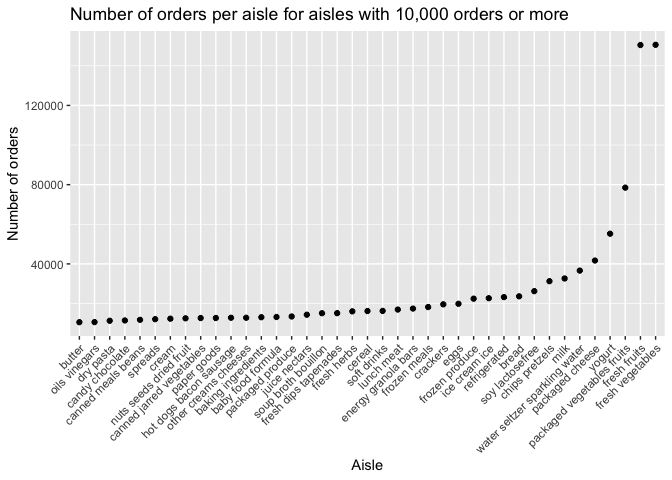
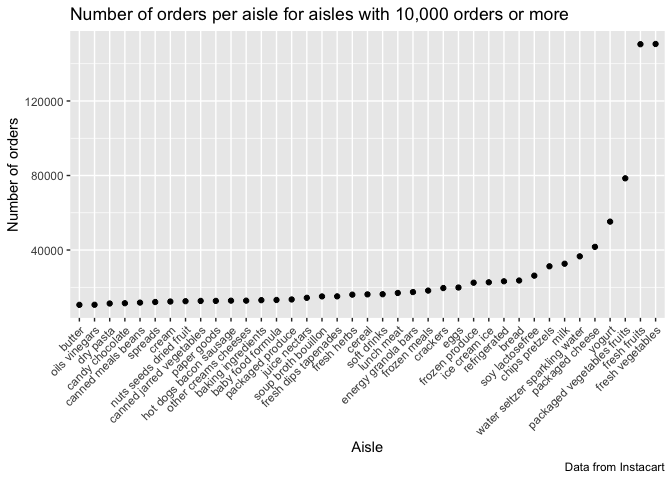
Top three items in three aisles table

diff --git a/p8105_hw3_rac2224.md b/p8105_hw3_rac2224.md
@@ -32,6 +32,7 @@ library(ggridges)
     ##     scale_discrete_manual
 
 ``` r
+library(knitr)
 library(p8105.datasets)
 
 data("instacart")
@@ -137,8 +138,59 @@ instacart %>%
     labs(
       title = "Number of orders per aisle for aisles with 10,000 orders or more",
       x = "Aisle",
-      y = "Number of orders"
+      y = "Number of orders",
+      caption = "Data from Instacart"
     )
 ```
 
 ![](p8105_hw3_rac2224_files/figure-gfm/unnamed-chunk-3-1.png)<!-- -->
+
+  - Based on the plot created above, the aisles with most items ordered
+    include the “fresh vegetables”, “fresh fruits”, “packaged vegetables
+    fruits”, “yogurt” and “packaged cheese” aisles, which supports
+    previous conclusions made regarding the aisles with most items
+    ordered. Fresh vegetables has the most items ordered, and butter has
+    the least items ordered. The number of orders for the majority of
+    aisles presented stays below 40,000, until there is a sharp and
+    almost exponential increase in the number of orders seen for the
+    aisles “fresh vegetables”, “fresh fruits”, “packaged vegetavles
+    fruits”, “yogurt” and “packaged cheese”.
+
+Table showing the three most popular items in aisles “baking
+ingredients”, “dog food care”, and “packaged vegetables
+fruits”
+
+``` r
+instacart2 = instacart[which(instacart$aisle=='baking ingredients' | instacart$aisle == 'dog food care'| instacart$aisle == 'packaged vegetables fruits'), 1:15]
+instacart3 = instacart[which(instacart$product_name=='Light Brown Sugar' | instacart$product_name=='Pure Baking Soda' | instacart$product_name=='Cane Sugar'| instacart$product_name=='Snack Sticks Chicken & Rice Recipe Dog Treats' | instacart$product_name=='Organix Chicken & Brown Rice Recipe' | instacart$product_name=='Small Dog Biscuits' | instacart$product_name=='Organic Baby Spinach' | instacart$product_name=='Organic Raspberries' | instacart$product_name=='Organic Blueberries'),1:15] 
+instacart3 %>%
+  group_by(aisle, product_name) %>%
+  summarize(
+    n_order = n()
+  ) %>%
+  arrange(desc(n_order)) %>%
+  knitr::kable(caption = "Number of orders for top three ordered products in the 'packaged vegetables fruits', 'baking ingredients' and 'dog good care' aisles")
+```
+
+| aisle                      | product\_name                                 | n\_order |
+| :------------------------- | :-------------------------------------------- | -------: |
+| packaged vegetables fruits | Organic Baby Spinach                          |     9784 |
+| packaged vegetables fruits | Organic Raspberries                           |     5546 |
+| packaged vegetables fruits | Organic Blueberries                           |     4966 |
+| baking ingredients         | Light Brown Sugar                             |      499 |
+| baking ingredients         | Pure Baking Soda                              |      387 |
+| baking ingredients         | Cane Sugar                                    |      336 |
+| dog food care              | Snack Sticks Chicken & Rice Recipe Dog Treats |       30 |
+| dog food care              | Organix Chicken & Brown Rice Recipe           |       28 |
+| dog food care              | Small Dog Biscuits                            |       26 |
+
+Number of orders for top three ordered products in the ‘packaged
+vegetables fruits’, ‘baking ingredients’ and ‘dog good care’ aisles
+
+  - The three most popular items in each aisle are as follows: for
+    baking ingredients the items are Light Brown Sugar (499), Pure
+    Baking Soda (387), and Cane Sugar (336); for dog food care the items
+    are Snack Sticks Chicken & Rice Recipe Dog Treats (26), Organix
+    Chicken & Brown Rice Recipe (28), and Small Dog Biscuits (26); for
+    packaged vegetables fruits the items are Organic Baby Spinach
+    (9784), Organic Raspberries (5546), Organic Blueberries (4966)
